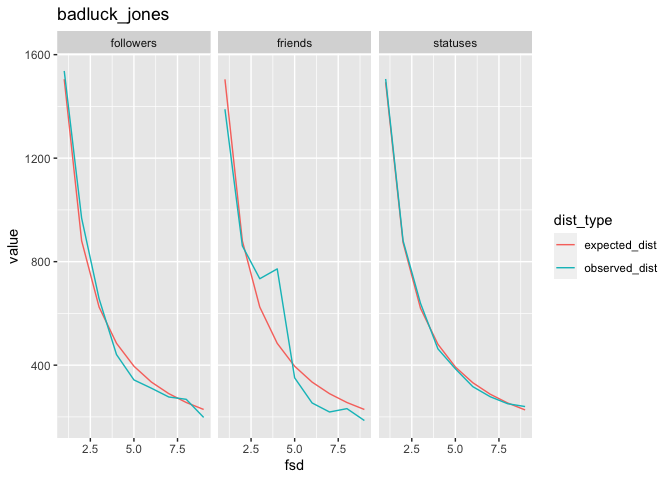
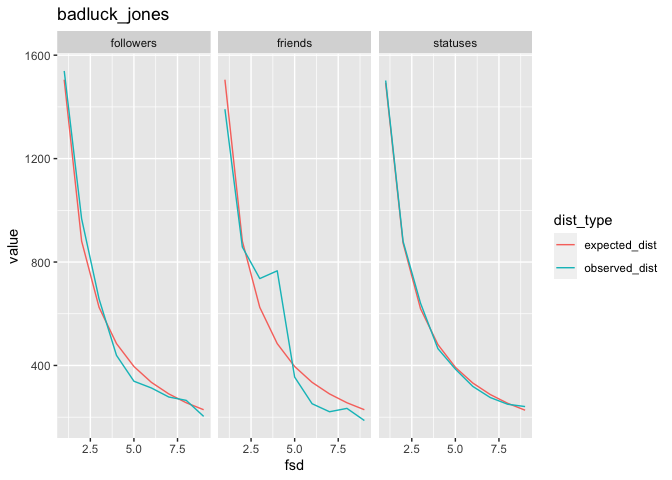
proof of concept

diff --git a/README.md b/README.md
@@ -59,12 +59,12 @@ like:
 malicious_res <- create_totervogel("badluck_jones")
 malicious_res
 #> User ID: badluck_jones 
-#> Friends Correlation:  0.9541358 
-#> Friends MAD:  0.0176604 ( Nonconformity )
-#> Statuses Correlation: 0.9995895 
-#> Statuses MAD:  0.002337229 ( Close conformity )
-#> Followers Correlation:  0.9965724 
-#> Followers MAD:  0.007286108 ( Acceptable conformity )
+#> Friends Correlation:  0.9554649 
+#> Friends MAD:  0.01745583 ( Nonconformity )
+#> Statuses Correlation: 0.9995705 
+#> Statuses MAD:  0.002277119 ( Close conformity )
+#> Followers Correlation:  0.9965788 
+#> Followers MAD:  0.007197219 ( Acceptable conformity )
 ```
 
 ``` r
@@ -79,8 +79,8 @@ malicious_res$friends_benford
 #> Benford object:
 #>  
 #> Data: info$friends_count 
-#> Number of observations used = 4998 
-#> Number of obs. for second order = 3335 
+#> Number of observations used = 5000 
+#> Number of obs. for second order = 3319 
 #> First digits analysed = 1
 #> 
 #> Mantissa: 
@@ -88,44 +88,44 @@ malicious_res$friends_benford
 #>    Statistic  Value
 #>         Mean  0.500
 #>          Var  0.075
-#>  Ex.Kurtosis -1.055
-#>     Skewness -0.064
+#>  Ex.Kurtosis -1.056
+#>     Skewness -0.063
 #> 
 #> 
 #> The 5 largest deviations: 
 #> 
 #>   digits absolute.diff
-#> 1      4        287.64
-#> 2      1        115.55
-#> 3      3        109.56
-#> 4      6         80.60
-#> 5      7         70.84
+#> 1      4        281.45
+#> 2      1        114.15
+#> 3      3        111.31
+#> 4      6         82.73
+#> 5      7         68.96
 #> 
 #> Stats:
 #> 
 #>  Pearson's Chi-squared test
 #> 
 #> data:  info$friends_count
-#> X-squared = 251.28, df = 8, p-value < 2.2e-16
+#> X-squared = 243.1, df = 8, p-value < 2.2e-16
 #> 
 #> 
 #>  Mantissa Arc Test
 #> 
 #> data:  info$friends_count
-#> L2 = 0.0085522, df = 2, p-value < 2.2e-16
+#> L2 = 0.0083259, df = 2, p-value < 2.2e-16
 #> 
-#> Mean Absolute Deviation (MAD): 0.0176604
+#> Mean Absolute Deviation (MAD): 0.01745583
 #> MAD Conformity - Nigrini (2012): Nonconformity
-#> Distortion Factor: -2.12435
+#> Distortion Factor: -2.03767
 #> 
 #> Remember: Real data will never conform perfectly to Benford's Law. You should not focus on p-values!
 ```
 
 # Notes
 
-  - In Globeck (2015), 89.7% of Twitter users had a correction of over
+  - In Golbeck (2015), 89.7% of Twitter users had a correction of over
     0.9. Less than 1% had a correlation under 0.5. An account must be
     very suspicious to have such a low correction.
 
-  - Accounts with a lower friends count are more likely to detect a low
-    Benfordness.
+  - Accounts with a lower friends count are more likely to be detected
+    with lower Benfordness.
